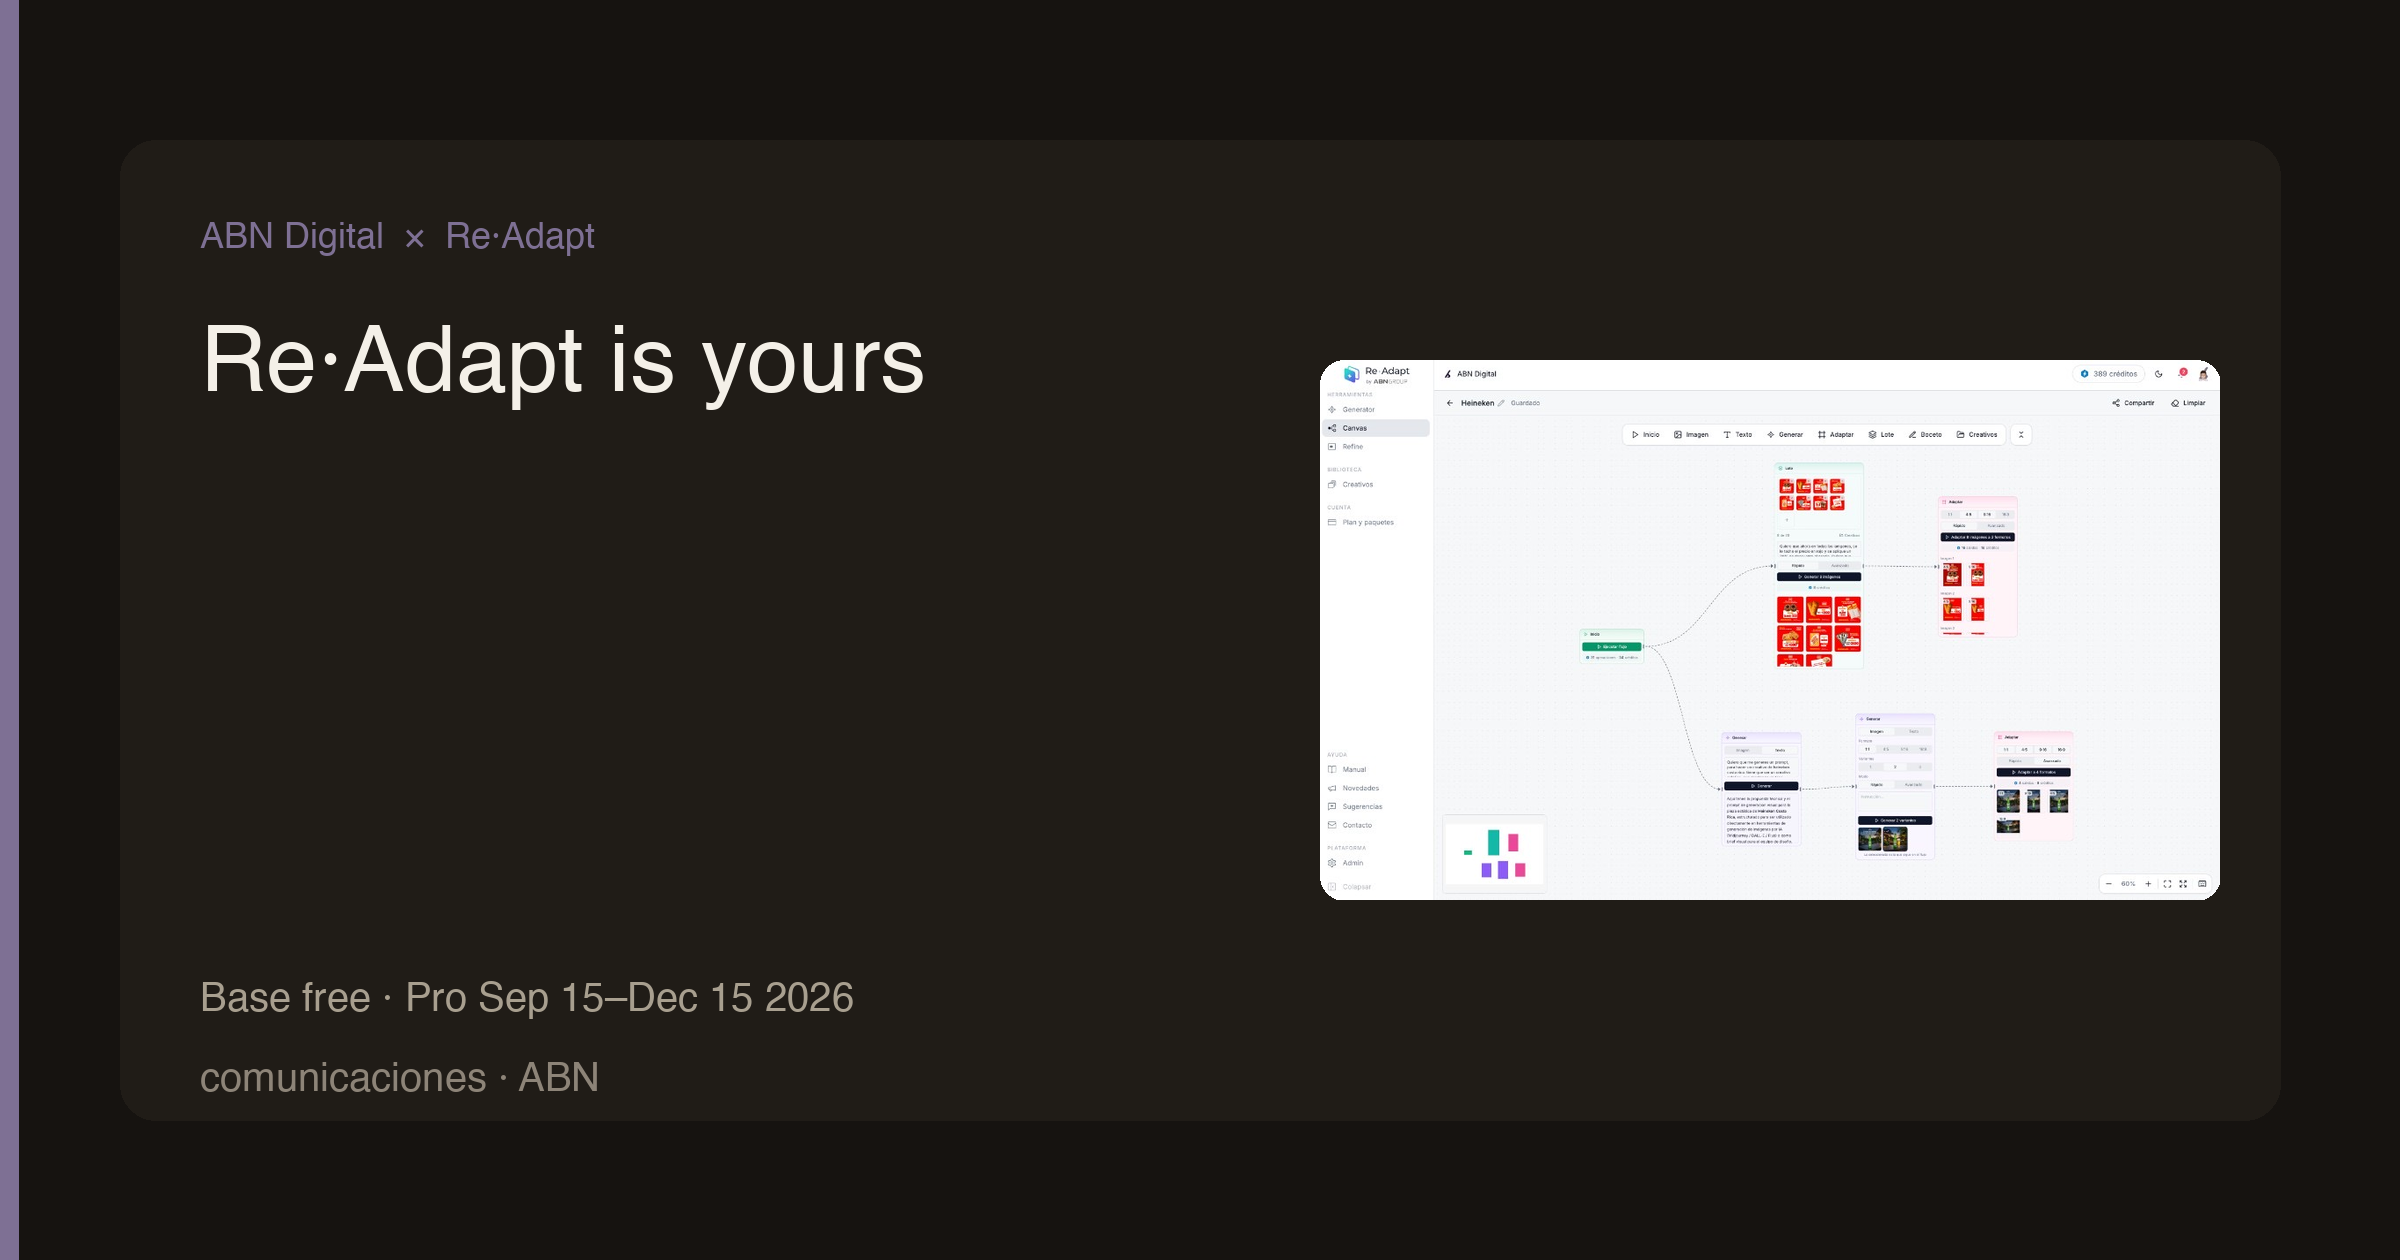
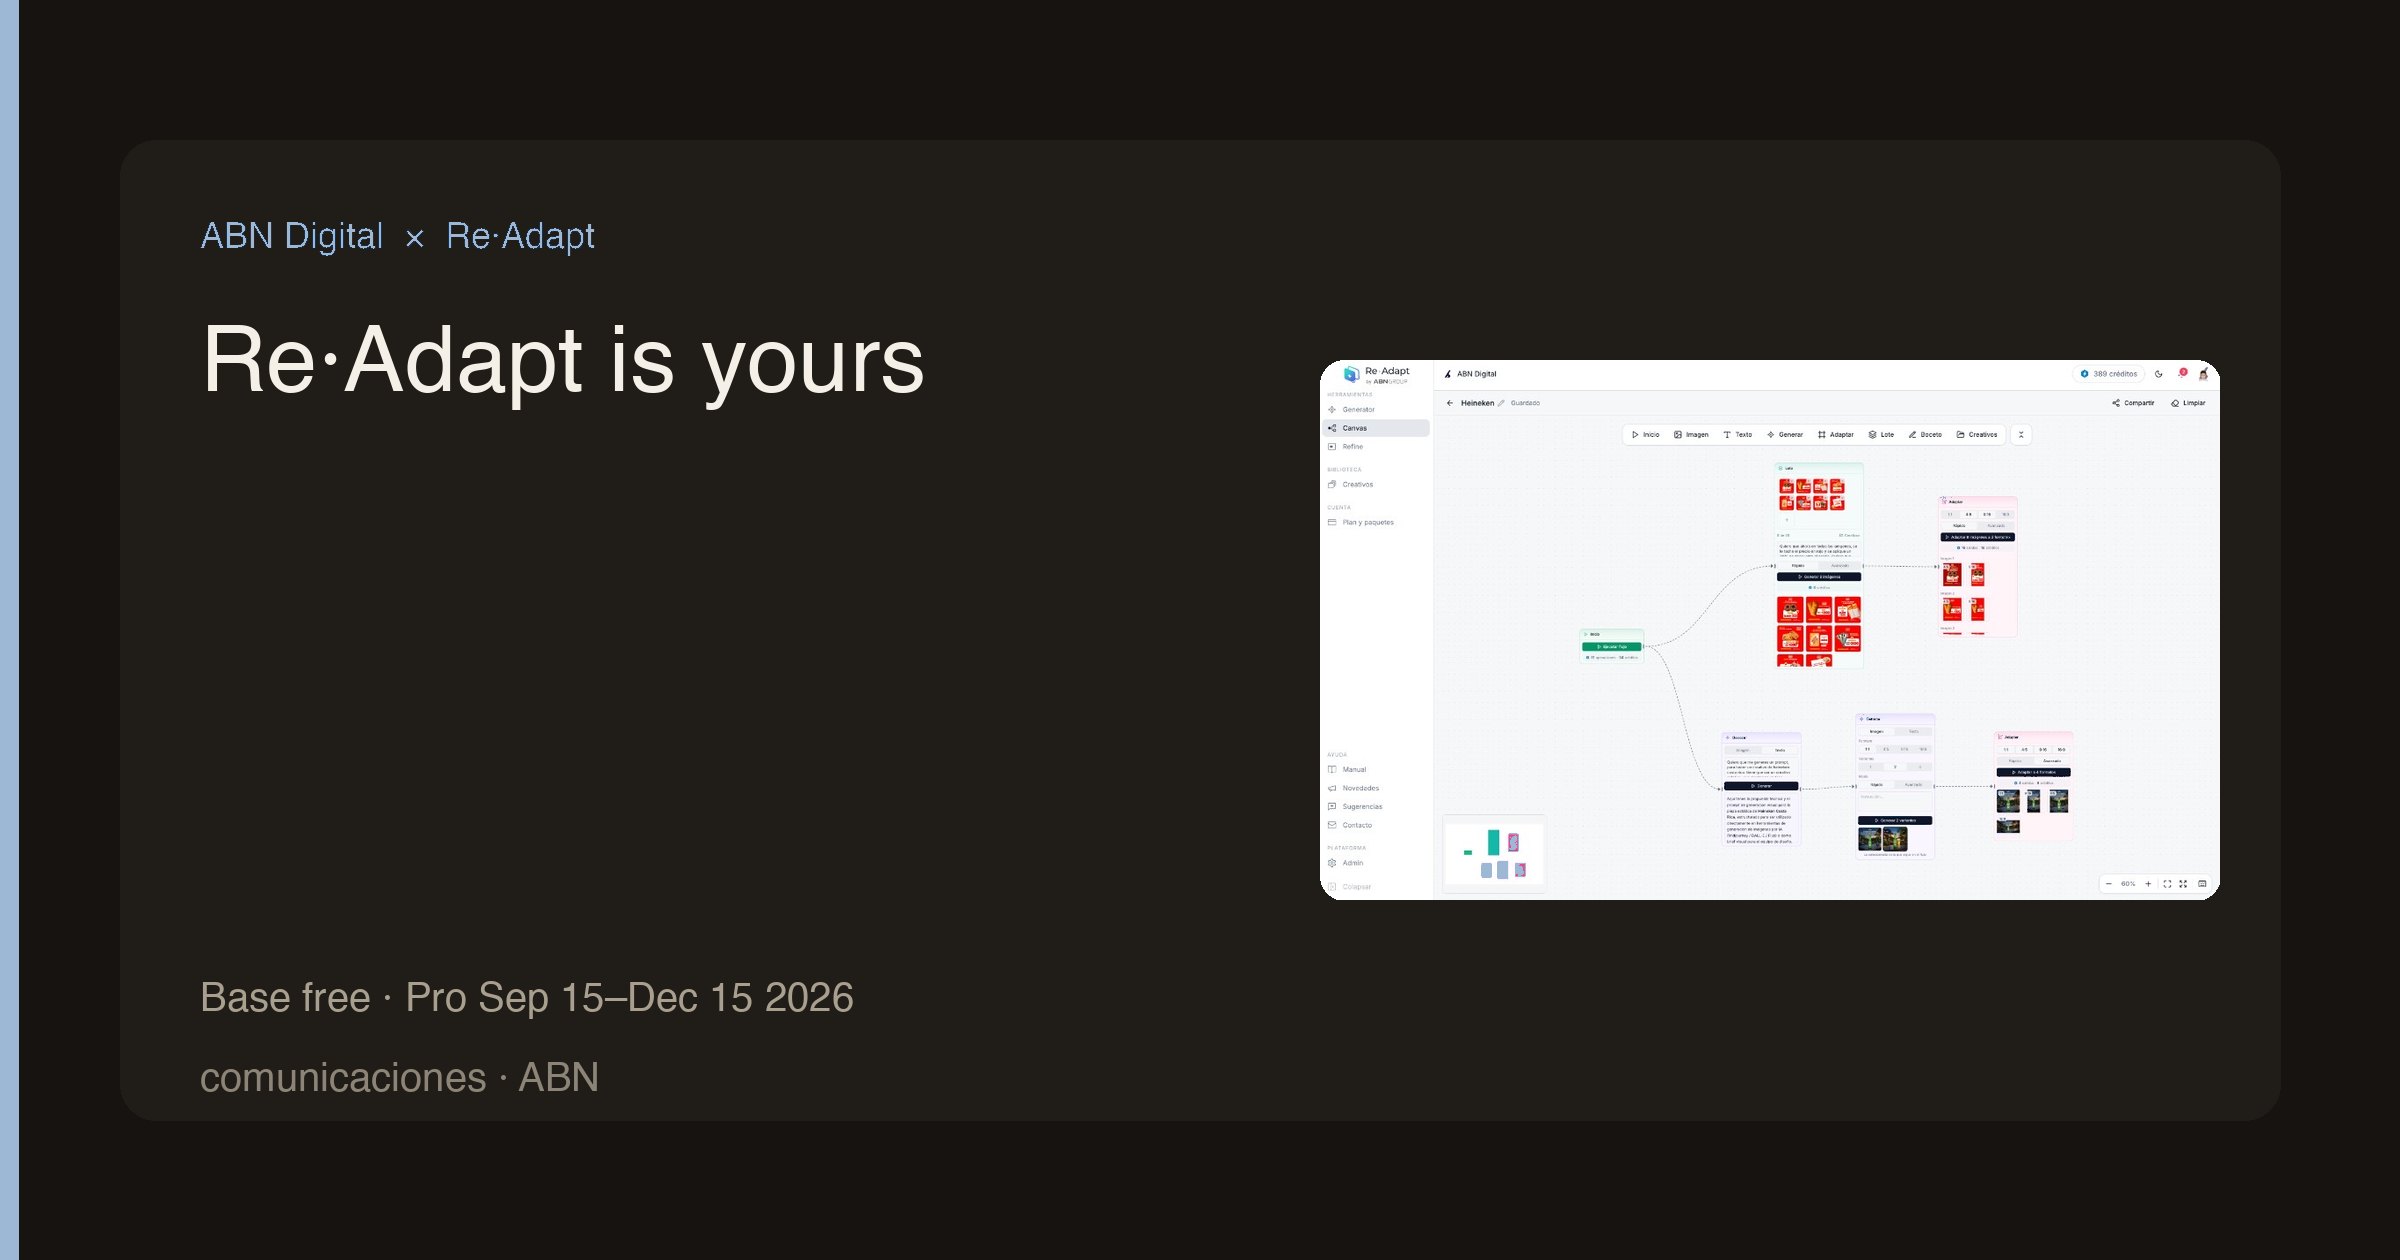
Swap Re·Adapt accent from violet to ABN navy.

Changed region(s): [[0.0, 0.0, 0.0312, 1.0], [0.0938, 0.1548, 0.1562, 0.2167], [0.1875, 0.1857, 0.25, 0.2167]]

diff --git a/readapt-clientes/en/index.html b/readapt-clientes/en/index.html
@@ -28,18 +28,18 @@
   :root{
     --bg:#f3f0e9; --bg2:#ece6db; --card:#fffdf9; --ink:#211d1a; --body:#564f47;
     --muted:#8d8478; --line:rgba(33,29,26,.12);
-    --oa-ink:#7e7094; --oa-soft:#efeaf3; --oa-badge:#7e7094;
+    --oa-ink:#12304F; --oa-soft:#e6eef5; --oa-badge:#0B1E33;
     --sans:'Helvetica Neue','Helvetica Neue LT Std',Helvetica,Arial,sans-serif;
     --shadow:0 24px 60px -30px rgba(33,29,26,.35);
   }
   @media (prefers-color-scheme:dark){:root{
     --bg:#161310; --bg2:#1d1914; --card:#201c17; --ink:#f4f0e8; --body:#c4bdb0;
     --muted:#a89f8f; --line:rgba(244,240,232,.14);
-    --oa-ink:#b5a6c9; --oa-soft:#2a2430; --oa-badge:#7e7094;
+    --oa-ink:#9db8d4; --oa-soft:#1a2838; --oa-badge:#12304F;
     --shadow:0 30px 70px -34px rgba(0,0,0,.7);
   }}
-  :root[data-theme="dark"]{--bg:#161310;--bg2:#1d1914;--card:#201c17;--ink:#f4f0e8;--body:#c4bdb0;--muted:#a89f8f;--line:rgba(244,240,232,.14);--oa-ink:#b5a6c9;--oa-soft:#2a2430;--oa-badge:#7e7094;--shadow:0 30px 70px -34px rgba(0,0,0,.7);}
-  :root[data-theme="light"]{--bg:#f3f0e9;--bg2:#ece6db;--card:#fffdf9;--ink:#211d1a;--body:#564f47;--muted:#8d8478;--line:rgba(33,29,26,.12);--oa-ink:#7e7094;--oa-soft:#efeaf3;--oa-badge:#7e7094;--shadow:0 24px 60px -30px rgba(33,29,26,.35);}
+  :root[data-theme="dark"]{--bg:#161310;--bg2:#1d1914;--card:#201c17;--ink:#f4f0e8;--body:#c4bdb0;--muted:#a89f8f;--line:rgba(244,240,232,.14);--oa-ink:#9db8d4;--oa-soft:#1a2838;--oa-badge:#12304F;--shadow:0 30px 70px -34px rgba(0,0,0,.7);}
+  :root[data-theme="light"]{--bg:#f3f0e9;--bg2:#ece6db;--card:#fffdf9;--ink:#211d1a;--body:#564f47;--muted:#8d8478;--line:rgba(33,29,26,.12);--oa-ink:#12304F;--oa-soft:#e6eef5;--oa-badge:#0B1E33;--shadow:0 24px 60px -30px rgba(33,29,26,.35);}
   *{box-sizing:border-box}
   body{margin:0;background:var(--bg);color:var(--body);font-family:var(--sans);line-height:1.62;-webkit-font-smoothing:antialiased}
   .wrap{max-width:940px;margin:0 auto;padding-left:24px;padding-right:24px}

diff --git a/readapt-clientes/index.html b/readapt-clientes/index.html
@@ -28,18 +28,18 @@
   :root{
     --bg:#f3f0e9; --bg2:#ece6db; --card:#fffdf9; --ink:#211d1a; --body:#564f47;
     --muted:#8d8478; --line:rgba(33,29,26,.12);
-    --oa-ink:#7e7094; --oa-soft:#efeaf3; --oa-badge:#7e7094;
+    --oa-ink:#12304F; --oa-soft:#e6eef5; --oa-badge:#0B1E33;
     --sans:'Helvetica Neue','Helvetica Neue LT Std',Helvetica,Arial,sans-serif;
     --shadow:0 24px 60px -30px rgba(33,29,26,.35);
   }
   @media (prefers-color-scheme:dark){:root{
     --bg:#161310; --bg2:#1d1914; --card:#201c17; --ink:#f4f0e8; --body:#c4bdb0;
     --muted:#a89f8f; --line:rgba(244,240,232,.14);
-    --oa-ink:#b5a6c9; --oa-soft:#2a2430; --oa-badge:#7e7094;
+    --oa-ink:#9db8d4; --oa-soft:#1a2838; --oa-badge:#12304F;
     --shadow:0 30px 70px -34px rgba(0,0,0,.7);
   }}
-  :root[data-theme="dark"]{--bg:#161310;--bg2:#1d1914;--card:#201c17;--ink:#f4f0e8;--body:#c4bdb0;--muted:#a89f8f;--line:rgba(244,240,232,.14);--oa-ink:#b5a6c9;--oa-soft:#2a2430;--oa-badge:#7e7094;--shadow:0 30px 70px -34px rgba(0,0,0,.7);}
-  :root[data-theme="light"]{--bg:#f3f0e9;--bg2:#ece6db;--card:#fffdf9;--ink:#211d1a;--body:#564f47;--muted:#8d8478;--line:rgba(33,29,26,.12);--oa-ink:#7e7094;--oa-soft:#efeaf3;--oa-badge:#7e7094;--shadow:0 24px 60px -30px rgba(33,29,26,.35);}
+  :root[data-theme="dark"]{--bg:#161310;--bg2:#1d1914;--card:#201c17;--ink:#f4f0e8;--body:#c4bdb0;--muted:#a89f8f;--line:rgba(244,240,232,.14);--oa-ink:#9db8d4;--oa-soft:#1a2838;--oa-badge:#12304F;--shadow:0 30px 70px -34px rgba(0,0,0,.7);}
+  :root[data-theme="light"]{--bg:#f3f0e9;--bg2:#ece6db;--card:#fffdf9;--ink:#211d1a;--body:#564f47;--muted:#8d8478;--line:rgba(33,29,26,.12);--oa-ink:#12304F;--oa-soft:#e6eef5;--oa-badge:#0B1E33;--shadow:0 24px 60px -30px rgba(33,29,26,.35);}
   *{box-sizing:border-box}
   body{margin:0;background:var(--bg);color:var(--body);font-family:var(--sans);line-height:1.62;-webkit-font-smoothing:antialiased}
   .wrap{max-width:940px;margin:0 auto;padding-left:24px;padding-right:24px}
